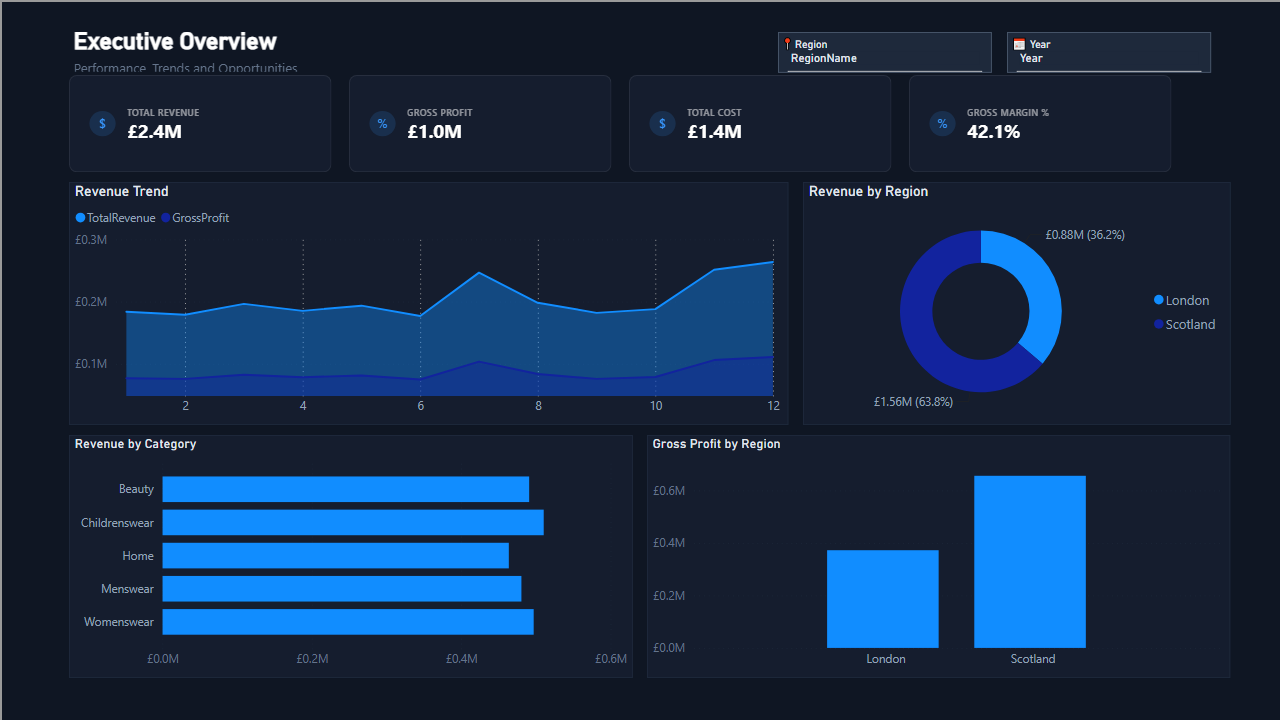
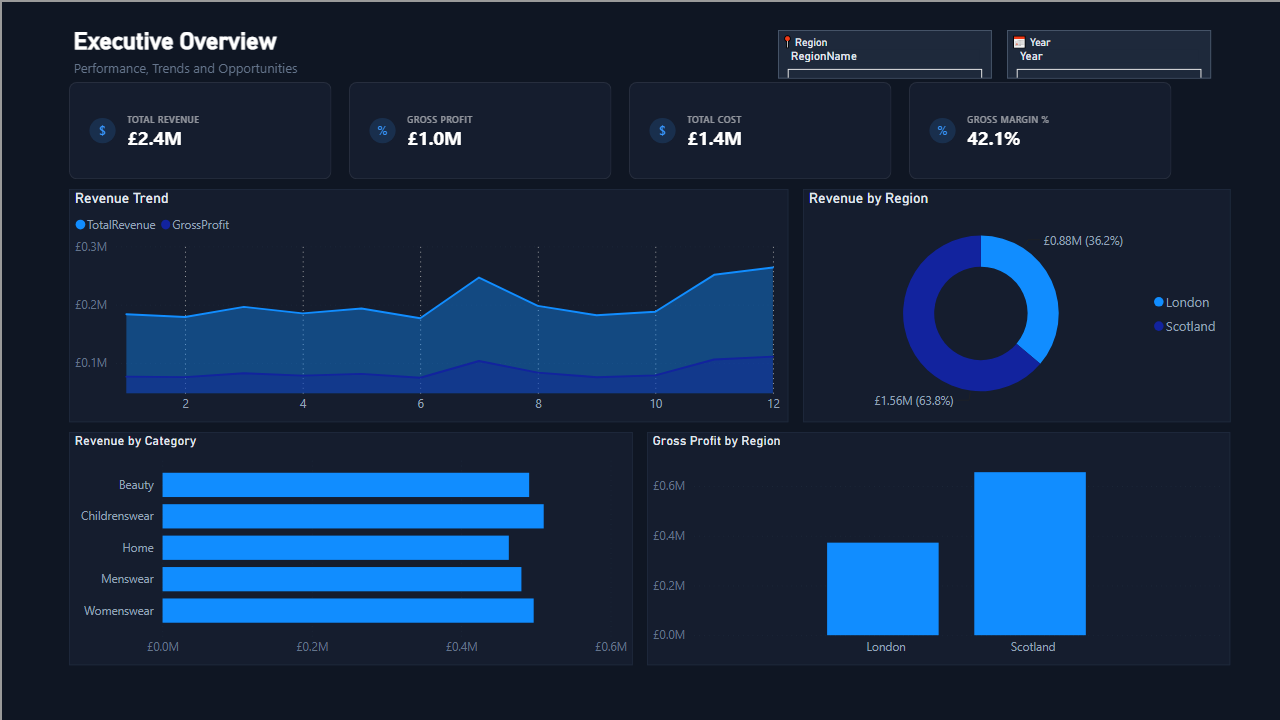
fix(07e): increase header/slicer height so subtitle visible and filters clickable

diff --git a/scripts/_deploy_exec_v1.py b/scripts/_deploy_exec_v1.py
@@ -164,10 +164,10 @@ def vis_container(name, x, y, w, h, z_idx):
 kpi_width = 270
 kpi_height = 100
 kpi_gap = 18
-kpi_y = 55
+kpi_y = 62
 
 # ===== PAGE TITLE (using actionTitle visual) =====
-title_vis = vis_container("pagetitle", kpi_start_x, 6, 450, 45, 99)
+title_vis = vis_container("pagetitle", kpi_start_x, 6, 450, 52, 99)
 title_vis["visual"] = {
     "visualType": "cardVisual",
     "query": {"queryState": {"Values": {"projections": [{
@@ -196,7 +196,7 @@ title_vis["visual"] = {
 
 # ===== FILTERS (right-aligned slicers) =====
 # Region slicer - styled to look like Mockup 1 filter pills
-slicer1 = vis_container("slicer_region", 780, 10, 220, 42, 97)
+slicer1 = vis_container("slicer_region", 780, 8, 220, 50, 97)
 slicer1["visual"] = {
     "visualType": "slicer",
     "query": {"queryState": {"Values": {"projections": [{
@@ -253,7 +253,7 @@ slicer1["visual"] = {
 add("definition/pages/exec/visuals/slicer_region/visual.json", slicer1)
 
 # Year slicer
-slicer2 = vis_container("slicer_year", 1015, 10, 210, 42, 98)
+slicer2 = vis_container("slicer_year", 1015, 8, 210, 50, 98)
 slicer2["visual"] = {
     "visualType": "slicer",
     "query": {"queryState": {"Values": {"projections": [{
@@ -338,7 +338,7 @@ for i, (label, entity, prop) in enumerate(kpi_measures):
 
 # ===== HERO LINE CHART (Revenue over time) =====
 hero_y = kpi_y + kpi_height + 10
-hero_vis = vis_container("hero_line", kpi_start_x, hero_y, 740, 250, 10)
+hero_vis = vis_container("hero_line", kpi_start_x, hero_y, 740, 240, 10)
 hero_vis["visual"] = {
     "visualType": "areaChart",
     "query": {"queryState": {
@@ -400,7 +400,7 @@ add("definition/pages/exec/visuals/hero_line/visual.json", hero_vis)
 
 # ===== DONUT CHART (Revenue by Region) =====
 donut_x = kpi_start_x + 740 + 15
-donut_vis = vis_container("donut_region", donut_x, hero_y, 440, 250, 11)
+donut_vis = vis_container("donut_region", donut_x, hero_y, 440, 240, 11)
 donut_vis["visual"] = {
     "visualType": "donutChart",
     "query": {"queryState": {
@@ -444,8 +444,8 @@ donut_vis["visual"] = {
 add("definition/pages/exec/visuals/donut_region/visual.json", donut_vis)
 
 # ===== BAR CHART (Revenue by Store) - bottom row =====
-bar_y = hero_y + 250 + 10
-bar_vis = vis_container("bar_stores", kpi_start_x, bar_y, 580, 250, 12)
+bar_y = hero_y + 240 + 10
+bar_vis = vis_container("bar_stores", kpi_start_x, bar_y, 580, 240, 12)
 bar_vis["visual"] = {
     "visualType": "barChart",
     "query": {"queryState": {
@@ -485,7 +485,7 @@ add("definition/pages/exec/visuals/bar_stores/visual.json", bar_vis)
 
 # ===== SECOND BOTTOM PANEL (Gross Profit by Store) =====
 bar2_x = kpi_start_x + 580 + 15
-bar2_vis = vis_container("bar_profit", bar2_x, bar_y, 600, 250, 13)
+bar2_vis = vis_container("bar_profit", bar2_x, bar_y, 600, 240, 13)
 bar2_vis["visual"] = {
     "visualType": "columnChart",
     "query": {"queryState": {
